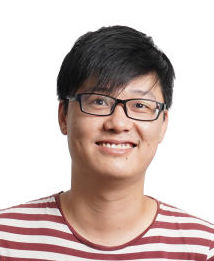
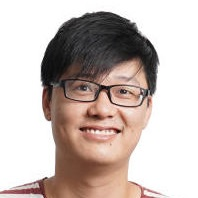
minor update

diff --git a/static/css/main.css b/static/css/main.css
@@ -118,12 +118,14 @@ pre {
 }
 
 .people-pic {
-  max-width: 125px;
-  max-height: 125px;
+  width: 125px;
+  height: 125px;
+  border-radius: 125px;
+  margin-bottom: 5px;
 }
 
 .people-name {
-  margin: 5px 0 10px;
+  text-align: center;
 }
 
 .people-name h6 {
